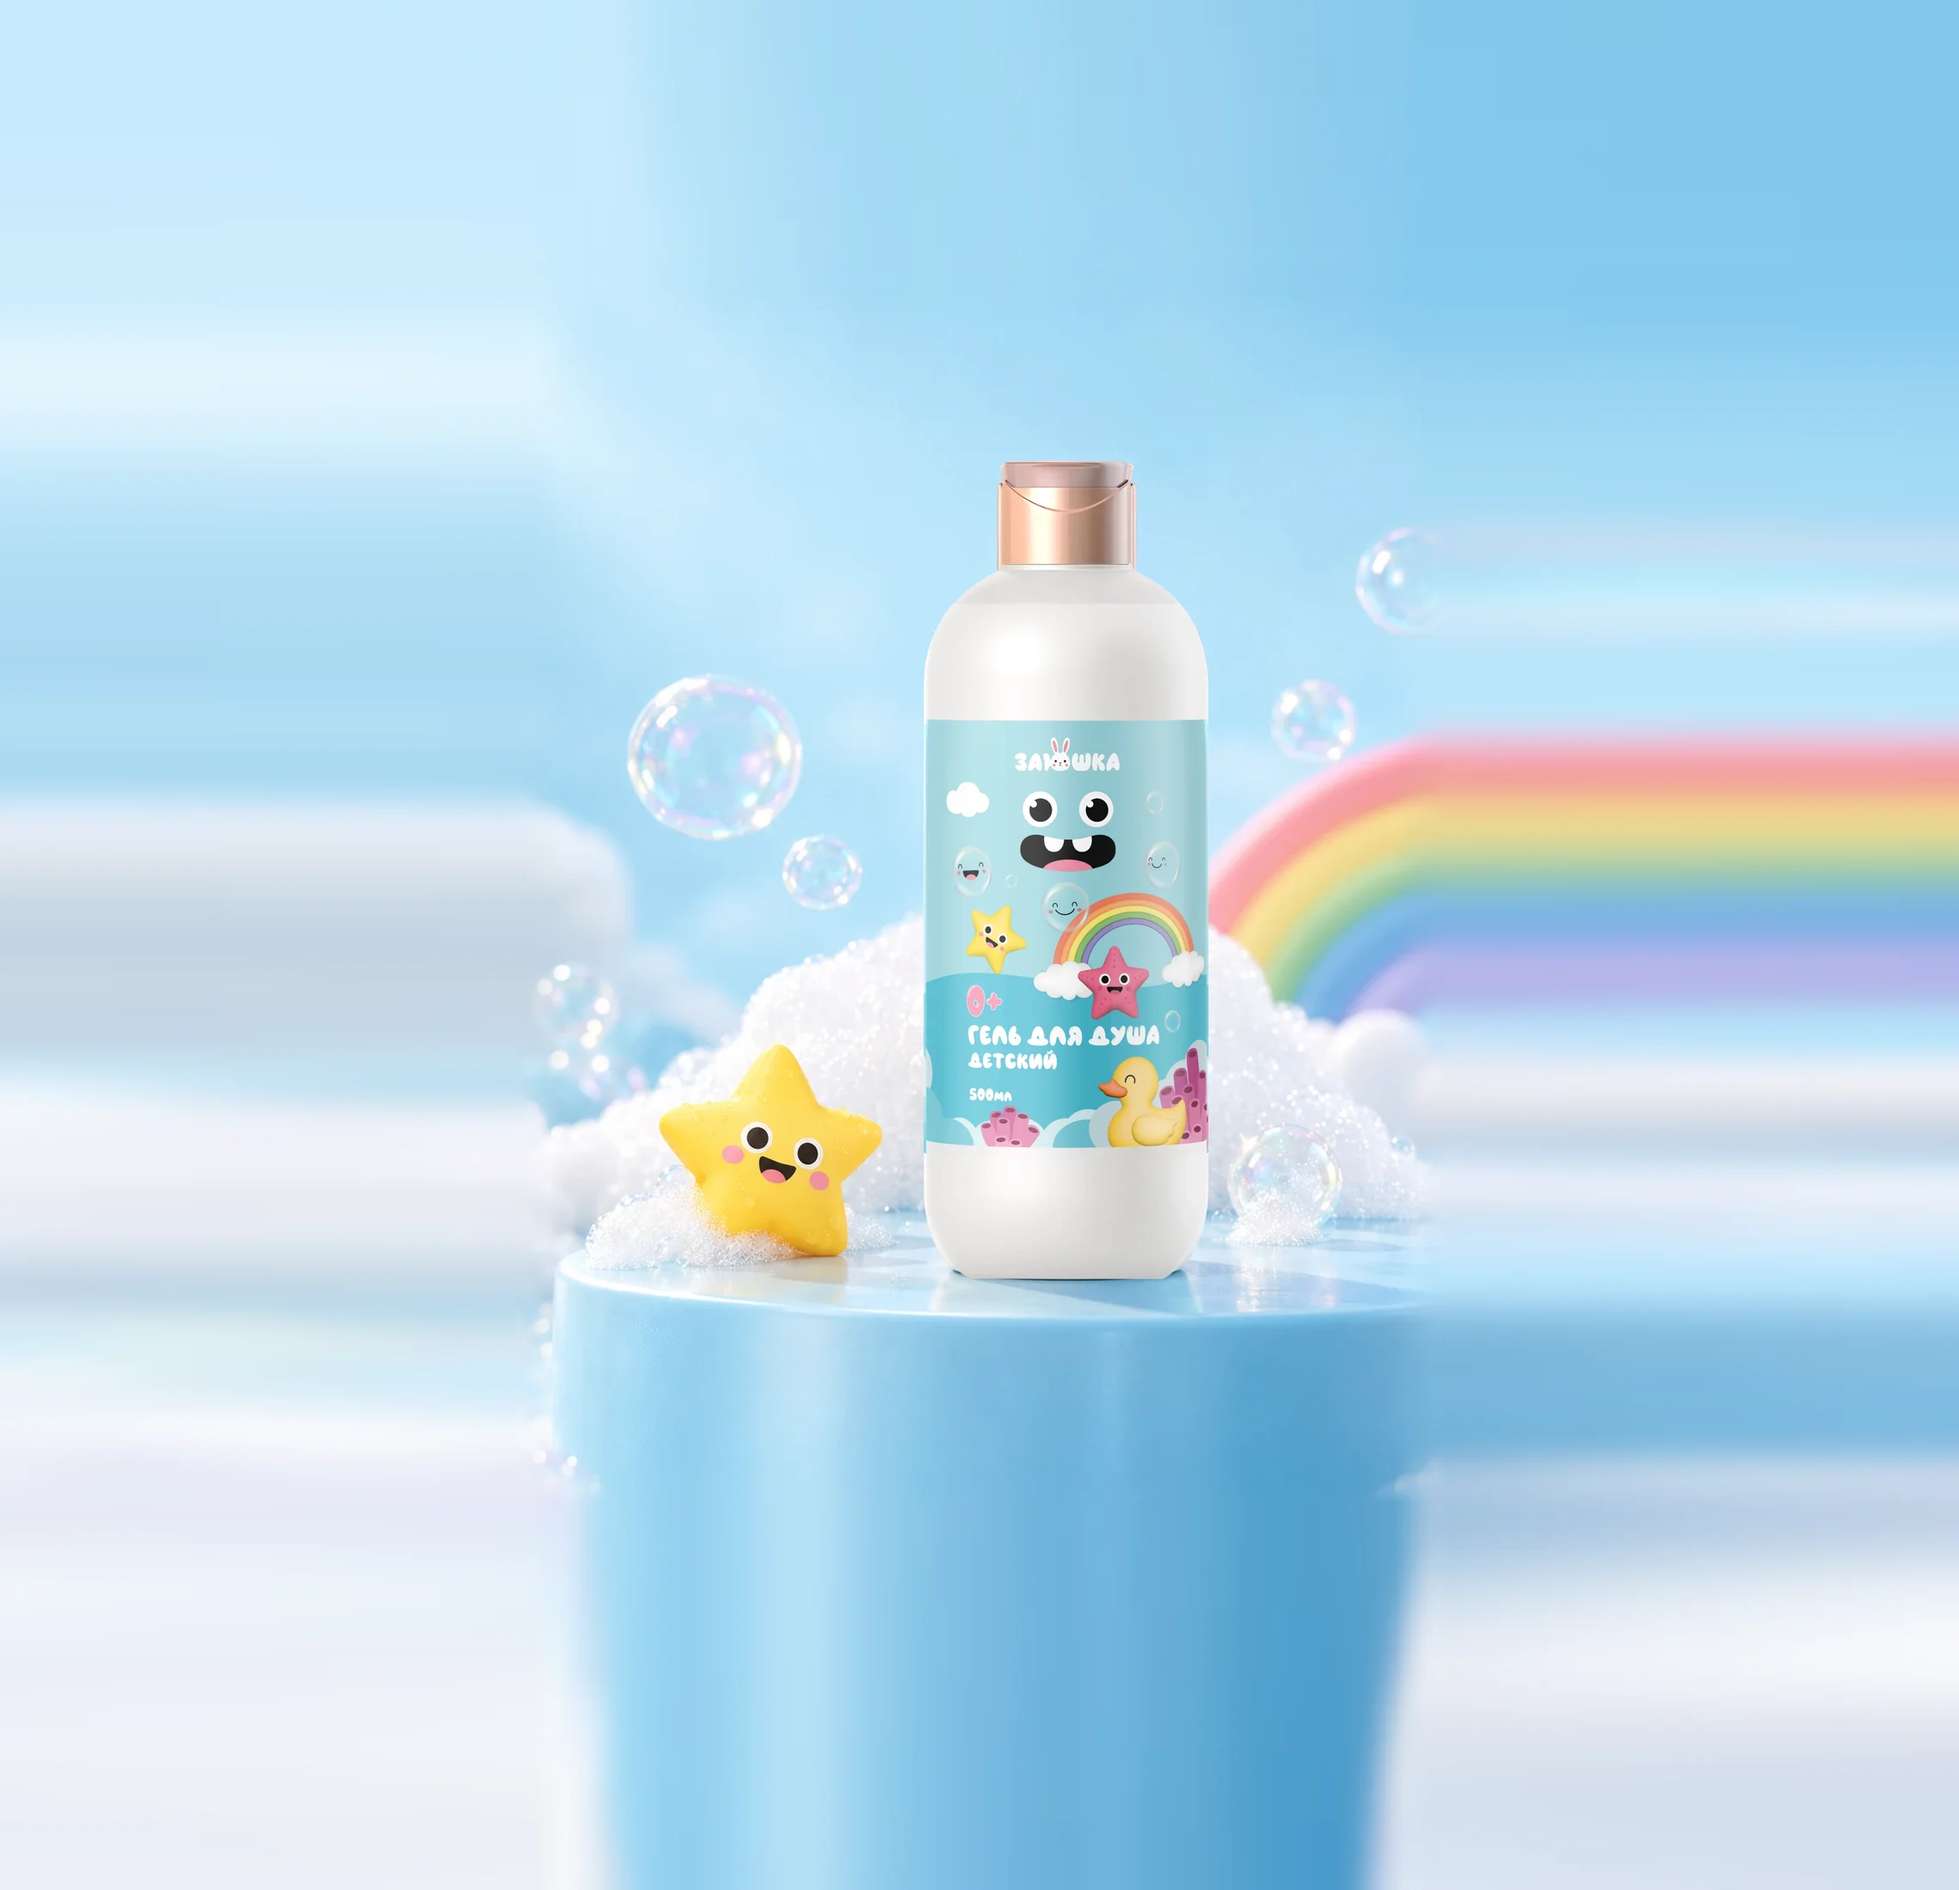
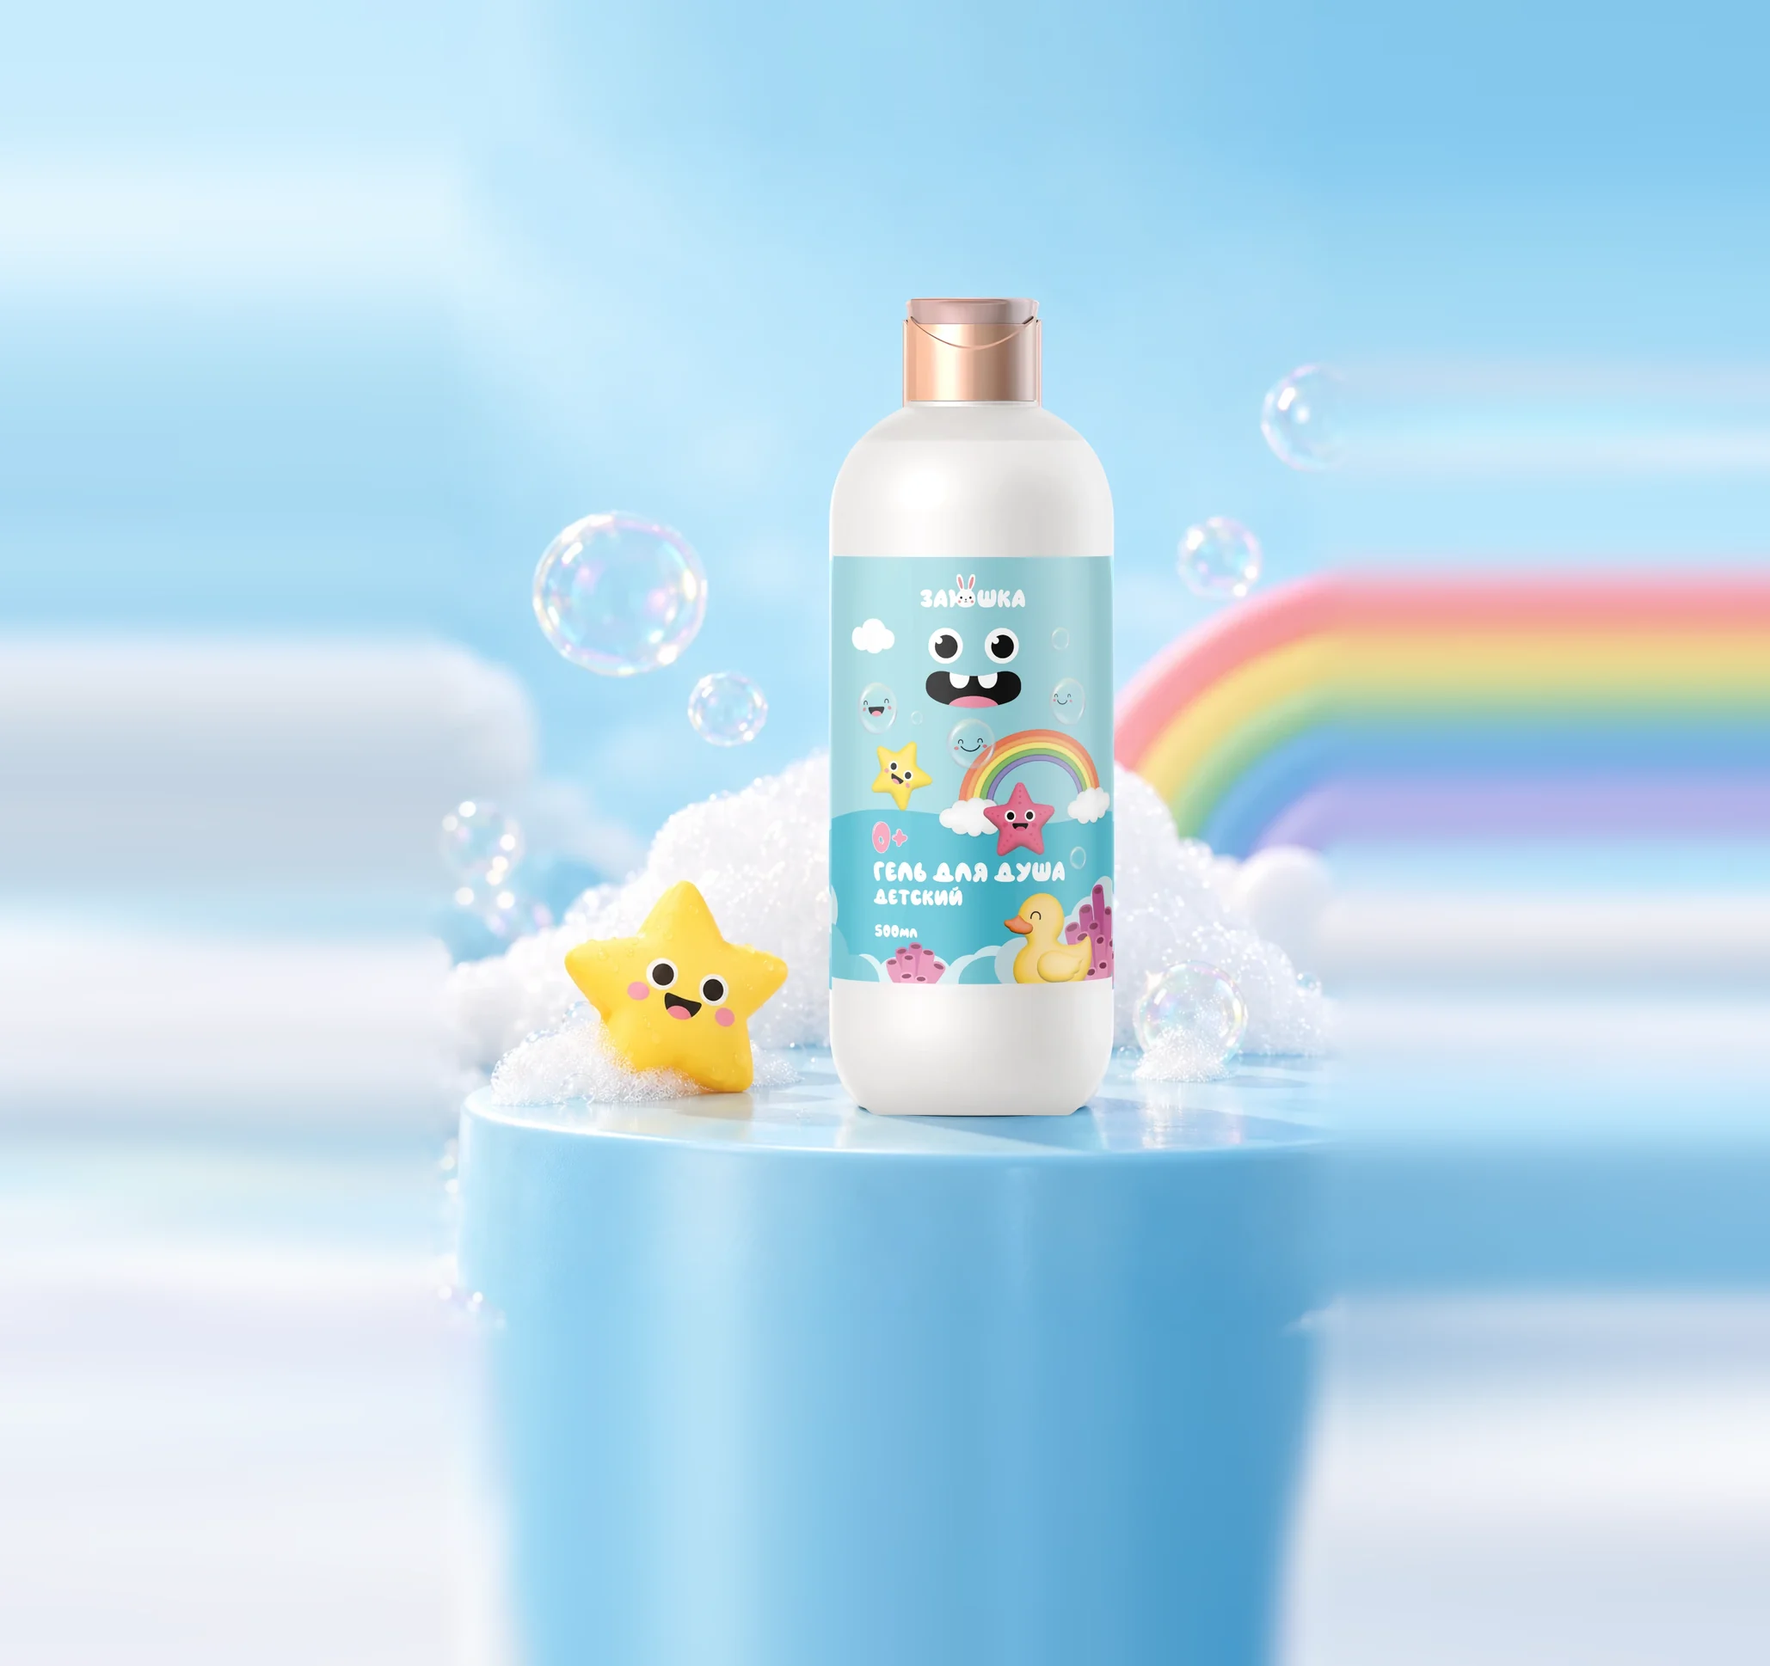
Карточки «Бытовая химия» и «Для детей»: товар правее, во второй — крупнее
Claude-Session: https://claude.ai/code/session_01NrjMZLUvLXUEoWuvL9qRjd

diff --git a/v7/index.html b/v7/index.html
@@ -77,7 +77,7 @@
         <span class="cat__go">Перейти <svg class="arrow" aria-hidden="true"><use href="#arrow"/></svg></span>
         <span class="cat__stage" aria-hidden="true"><i class="cb cb--1"></i><i class="cb cb--2"></i><i class="cb cb--3"></i></span>
       </a>
-      <a class="cat cat--kids bubbles cat--photo" href="catalog.html?cat=detskaya" style="--photo: url(../assets/products/cat-kids.webp?v=4)">
+      <a class="cat cat--kids bubbles cat--photo" href="catalog.html?cat=detskaya" style="--photo: url(../assets/products/cat-kids.webp?v=5)">
         <span class="cat__title">Для детей</span>
         <span class="cat__sub">Нежный уход<br>и чистота</span>
         <span class="cat__go">Перейти <svg class="arrow" aria-hidden="true"><use href="#arrow"/></svg></span>

diff --git a/v7/styles.css b/v7/styles.css
@@ -675,10 +675,10 @@ h1, h2, h3 { margin: 0; }
 .cat--photo .cat__sub { max-width: 48% !important; }
 .cat--biolut.cat--photo { background-color: #D9CBF6; }
 .cat--biolut.cat--photo .cat__sub { max-width: 60% !important; }
-.cat--biolut.cat--photo { background-position: 60% bottom; }
+.cat--biolut.cat--photo { background-position: 34% bottom; }
 .cat--kids.cat--photo { background-color: #BFE3F5; }
 .cat--kids.cat--photo .cat__sub { max-width: 60% !important; }
 .cat--pets.cat--photo { background-color: #F6DDBF; } .cat--pets.cat--photo .cat__sub { max-width: 60% !important; }
 .cat--lube.cat--photo { background-color: #F3B9D6; }
 .cat--lube.cat--photo .cat__sub { max-width: 64% !important; }
-.cat--kids.cat--photo { background-position: 56% bottom; }
+.cat--kids.cat--photo { background-position: 30% bottom; }
